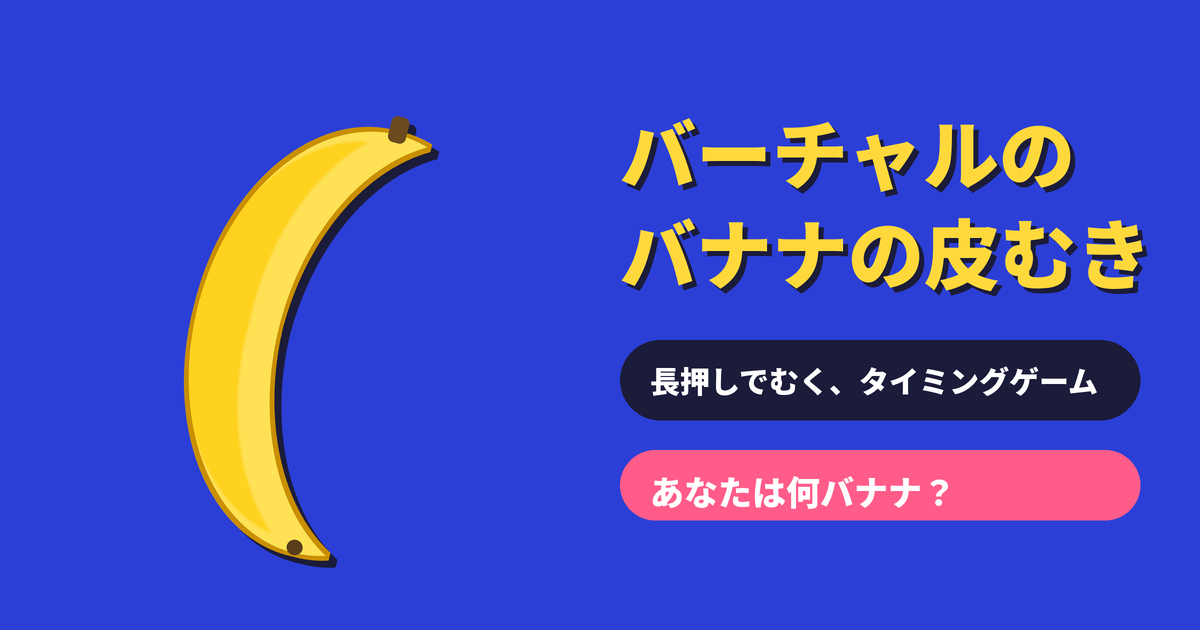
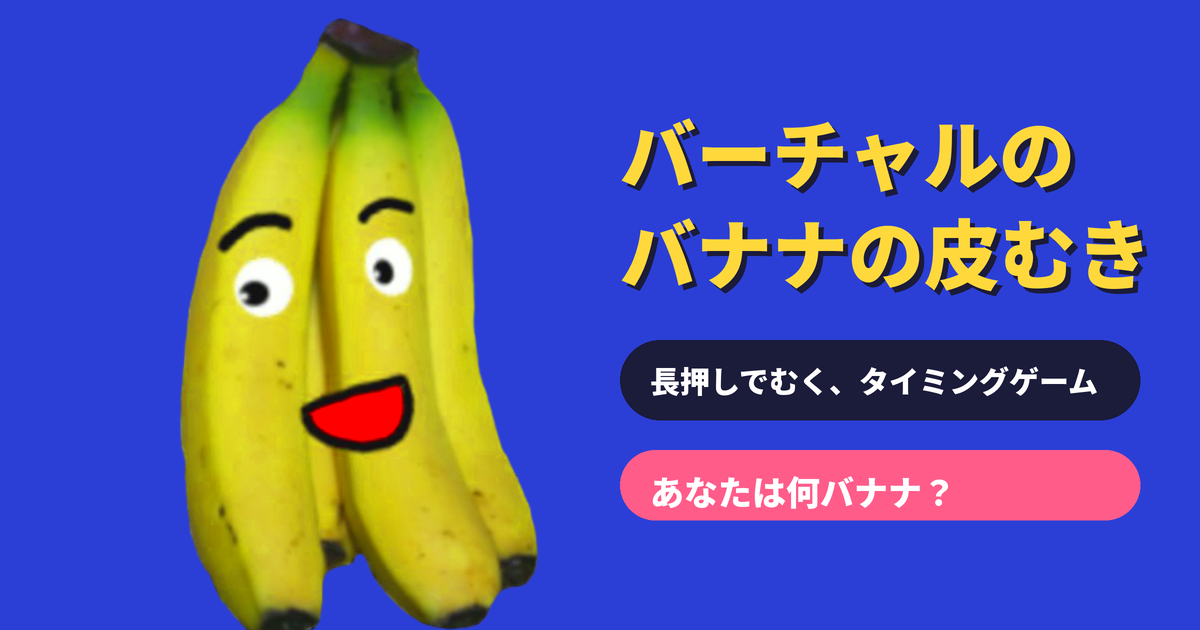
音声追加、タイトル画面

Changed region(s): [[0.1233, 0.0302, 0.4625, 1.0]]

diff --git a/index.html b/index.html
@@ -40,6 +40,8 @@ box-shadow:0 6px 0 var(--deep);cursor:pointer;touch-action:manipulation}
 .btn:active{transform:translateY(4px);box-shadow:0 2px 0 var(--deep)}
 .btn.sub{background:var(--banana);color:var(--deep)}
 .btn.x{background:#000}
+.mute{position:fixed;top:calc(env(safe-area-inset-top,0px) + 10px);right:12px;z-index:10;width:44px;height:44px;border-radius:50%;border:0;background:rgba(27,27,58,.9);color:#fff;font-size:20px;cursor:pointer;touch-action:manipulation}
+.mute:focus-visible{outline:3px solid #fff;outline-offset:2px}
 .btn.mini{font-size:15px;padding:8px 24px;min-width:0;background:transparent;color:#fff;box-shadow:none;text-decoration:underline}
 .btn:focus-visible{outline:3px solid #fff;outline-offset:3px}
 .gauge{width:100%;height:30px;border-radius:999px;background:var(--deep);padding:4px;box-shadow:0 4px 0 rgba(0,0,0,.25)}
@@ -79,12 +81,12 @@ box-shadow:0 6px 0 var(--deep);cursor:pointer;touch-action:manipulation}
           <linearGradient id="inG" gradientUnits="userSpaceOnUse" x1="-34" y1="0" x2="34" y2="0"><stop offset="0" stop-color="#f3dc8a"/><stop offset=".5" stop-color="#fff3bf"/><stop offset="1" stop-color="#e8c960"/></linearGradient>
           <linearGradient id="fruG" x1="0" x2="1"><stop offset="0" style="stop-color:var(--f2)"/><stop offset=".4" style="stop-color:var(--f1)"/><stop offset="1" style="stop-color:var(--f2)"/></linearGradient>
           <linearGradient id="stG" x1="0" x2="1"><stop offset="0" stop-color="#8a6526"/><stop offset=".5" stop-color="#b08838"/><stop offset="1" stop-color="#5e4219"/></linearGradient>
-          <clipPath id="cL"><rect x="-80" y="-240" width="71" height="260"/></clipPath>
-          <clipPath id="cC"><rect x="-10" y="-240" width="20" height="260"/></clipPath>
-          <clipPath id="cR"><rect x="9" y="-240" width="71" height="260"/></clipPath>
+          <clipPath id="cL"><rect x="-80" y="-240" width="67" height="260"/></clipPath>
+          <clipPath id="cC"><rect x="-14" y="-240" width="28" height="260"/></clipPath>
+          <clipPath id="cR"><rect x="13" y="-240" width="67" height="260"/></clipPath>
           <g id="sil">
             <path d="M-30,0 C-36,-60 -34,-150 -10,-200 L-6,-206 L6,-206 L10,-200 C34,-150 36,-60 30,0 Z" stroke="none"/>
-            <path d="M-10,-4 C-12,-60 -12,-150 -6,-200 M10,-4 C12,-60 12,-150 6,-200" fill="none" stroke-width="2" style="stroke:var(--edge)" opacity=".35"/>
+            <path d="M-14,-4 C-16,-60 -15,-150 -7,-200 M14,-4 C16,-60 15,-150 7,-200" fill="none" stroke-width="2" style="stroke:var(--edge)" opacity=".35"/>
             <path d="M-19,-20 C-23,-80 -22,-140 -14,-180" fill="none" stroke="#fff" stroke-opacity=".45" stroke-width="5" stroke-linecap="round"/>
             <path d="M-30,0 C-36,-60 -34,-150 -10,-200 L-6,-206 L6,-206 L10,-200 C34,-150 36,-60 30,0" fill="none" stroke-width="3" stroke-linejoin="round"/>
             <rect x="-6" y="-214" width="12" height="10" rx="3" fill="#5a3d1a" stroke="none"/>
@@ -94,7 +96,7 @@ box-shadow:0 6px 0 var(--deep);cursor:pointer;touch-action:manipulation}
           <path d="M-22,-4 C-27,-60 -25,-150 -8,-196 L8,-196 C25,-150 27,-60 22,-4Z" fill="url(#fruG)" style="stroke:var(--edge)" stroke-width="2"/>
           <path d="M-10,100 L-12,130 Q0,138 12,130 L10,100Z" fill="url(#stG)" stroke="#4a3213" stroke-width="2"/>
           <path d="M-30,-4 C-38,32 -30,82 -11,104 L11,104 C30,82 38,32 30,-4Z" fill="url(#peelG)" stroke="none"/>
-          <path d="M-10,-4 C-12,40 -9,80 -5,102 M10,-4 C12,40 9,80 5,102" fill="none" stroke-width="2" style="stroke:var(--edge)" opacity=".35"/>
+          <path d="M-14,-4 C-15,40 -11,80 -5,102 M14,-4 C15,40 11,80 5,102" fill="none" stroke-width="2" style="stroke:var(--edge)" opacity=".35"/>
           <path d="M-30,-4 C-38,32 -30,82 -11,104 L11,104 C30,82 38,32 30,-4" fill="none" style="stroke:var(--edge)" stroke-width="3"/>
           <g id="fl"><g clip-path="url(#cL)"><use id="flu" href="#sil" style="fill:url(#peelG);stroke:var(--edge)"/></g></g>
           <g id="fr"><g clip-path="url(#cR)"><use id="fru" href="#sil" style="fill:url(#peelG);stroke:var(--edge)"/></g></g>
@@ -119,6 +121,7 @@ box-shadow:0 6px 0 var(--deep);cursor:pointer;touch-action:manipulation}
   </div>
 </main>
 
+<button class="mute" id="mute" aria-label="音のオン・オフ">🔊</button>
 <script>
 (function(){
   var $=function(i){return document.getElementById(i)};
@@ -127,12 +130,12 @@ box-shadow:0 6px 0 var(--deep);cursor:pointer;touch-action:manipulation}
   var holding=false,t0=0,p=0,raf=0,rank=null,lastV=0,imgP=null,URL_='https://virtualbanana877.github.io/banana-peel/';
 
   var RANKS={
-    god:{n:'神バナナ',s:'完璧。バナナ界の伝説になれる。',e:['🍌','✨','🌟'],c:40},
-    pro:{n:'プロバナナ',s:'お見事。プロの手つき。',e:['🍌','✨'],c:18},
-    normal:{n:'普通バナナ',s:'悪くない。もう少しで神。',e:['🍌'],c:8},
-    unripe:{n:'未熟バナナ',s:'早すぎ。まだ皮が固い。',e:['💦','😣'],c:10},
-    mushy:{n:'ぐちゃぐちゃバナナ',s:'遅すぎ。実がつぶれた。',e:['💥','💦'],c:12},
-    rotten:{n:'腐れバナナ',s:'もはやバナナではない。',e:['🪰','☠'],c:12}
+    god:{n:'神バナナ',v:'かみバナナ',s:'完璧。バナナ界の伝説になれる。',e:['🍌','✨','🌟'],c:40},
+    pro:{n:'プロバナナ',v:'プロバナナ',s:'お見事。プロの手つき。',e:['🍌','✨'],c:18},
+    normal:{n:'普通バナナ',v:'ふつうバナナ',s:'悪くない。もう少しで神。',e:['🍌'],c:8},
+    unripe:{n:'未熟バナナ',v:'みじゅくバナナ',s:'早すぎ。まだ皮が固い。',e:['💦','😣'],c:10},
+    mushy:{n:'ぐちゃぐちゃバナナ',v:'ぐちゃぐちゃバナナ',s:'遅すぎ。実がつぶれた。',e:['💥','💦'],c:12},
+    rotten:{n:'腐れバナナ',v:'くされバナナ',s:'もはやバナナではない。',e:['🪰','☠'],c:12}
   };
 
   function judge(v){
@@ -146,8 +149,8 @@ box-shadow:0 6px 0 var(--deep);cursor:pointer;touch-action:manipulation}
 
   function draw(v){
     var a=v/100*130;
-    $('fl').setAttribute('transform','rotate('+(-a)+',-20,0)');
-    $('fr').setAttribute('transform','rotate('+a+',20,0)');
+    $('fl').setAttribute('transform','rotate('+(-a)+',-22,0)');
+    $('fr').setAttribute('transform','rotate('+a+',22,0)');
     var sy=1-1.6*v/100;
     $('fc').setAttribute('transform','scale(1,'+sy.toFixed(3)+')');
     $('fcu').style.fill=sy<0?'url(#inG)':'url(#peelG)';
@@ -157,9 +160,61 @@ box-shadow:0 6px 0 var(--deep);cursor:pointer;touch-action:manipulation}
     $('pct').innerHTML=Math.floor(v)+'<small>%</small>';
   }
 
+  var ac=null,snd=null,muted=false;
+  function audioOn(){
+    try{
+      if(!ac){var AC=window.AudioContext||window.webkitAudioContext;if(AC) ac=new AC();}
+      if(ac&&ac.state==='suspended') ac.resume();
+    }catch(e){}
+  }
+  function sndStart(){
+    if(!ac||muted||snd) return;
+    var t=ac.currentTime,o=ac.createOscillator(),f=ac.createBiquadFilter(),g=ac.createGain(),l=ac.createOscillator(),lg=ac.createGain();
+    o.type='sawtooth';o.frequency.value=160;
+    f.type='lowpass';f.Q.value=6;f.frequency.value=500;
+    g.gain.setValueAtTime(0,t);g.gain.linearRampToValueAtTime(.14,t+.06);
+    l.frequency.value=7;lg.gain.value=10;l.connect(lg);lg.connect(o.frequency);
+    o.connect(f);f.connect(g);g.connect(ac.destination);
+    o.start();l.start();
+    snd={o:o,f:f,g:g,l:l,lg:lg};
+  }
+  function sndUpdate(v){
+    if(!snd) return;
+    var t=ac.currentTime,k=v/100;
+    snd.o.frequency.setTargetAtTime(160*Math.pow(3.4,k),t,.03);
+    snd.f.frequency.setTargetAtTime(500+1400*k,t,.03);
+    snd.lg.gain.setTargetAtTime(10+30*k,t,.05);
+    snd.l.frequency.setTargetAtTime(7+5*k,t,.05);
+  }
+  function sndStop(){
+    if(!snd) return;
+    var t=ac.currentTime,x=snd;snd=null;
+    x.g.gain.cancelScheduledValues(t);x.g.gain.setTargetAtTime(0,t,.04);
+    x.o.stop(t+.25);x.l.stop(t+.25);
+  }
+  function cancelSpeech(){try{if(window.speechSynthesis) speechSynthesis.cancel();}catch(e){}}
+  function primeSpeech(){
+    try{if(window.speechSynthesis){var u=new SpeechSynthesisUtterance('');u.volume=0;speechSynthesis.speak(u);}}catch(e){}
+  }
+  function speak(t){
+    if(muted) return;
+    try{
+      if(!window.speechSynthesis) return;
+      speechSynthesis.cancel();
+      var u=new SpeechSynthesisUtterance(t);u.lang='ja-JP';u.rate=1;u.pitch=1.1;
+      var vs=speechSynthesis.getVoices();
+      for(var i=0;i<vs.length;i++){if(/^ja/i.test(vs[i].lang)){u.voice=vs[i];break;}}
+      speechSynthesis.speak(u);
+    }catch(e){}
+  }
+  $('mute').addEventListener('click',function(){
+    muted=!muted;this.textContent=muted?'🔇':'🔊';
+    if(muted){sndStop();cancelSpeech();}else{audioOn();}
+  });
+
   function setScreen(s){app.dataset.s=s;}
   function ready(){
-    cancelAnimationFrame(raf);holding=false;p=0;rank=null;app.dataset.r='';
+    sndStop();cancelSpeech();cancelAnimationFrame(raf);holding=false;p=0;rank=null;app.dataset.r='';audioOn();primeSpeech();
     draw(0);$('hint').textContent='画面を長押し！';setScreen('play');
   }
 
@@ -167,6 +222,7 @@ box-shadow:0 6px 0 var(--deep);cursor:pointer;touch-action:manipulation}
     if(!holding) return;
     p=Math.min(100,(now-t0)/1000*SPEED);
     draw(p);
+    sndUpdate(p);
     if(p>=100){finish();return;}
     raf=requestAnimationFrame(tick);
   }
@@ -174,7 +230,7 @@ box-shadow:0 6px 0 var(--deep);cursor:pointer;touch-action:manipulation}
   function press(e){
     if(app.dataset.s!=='play'||holding) return;
     e.preventDefault();
-    holding=true;t0=performance.now();
+    holding=true;t0=performance.now();audioOn();sndStart();
     $('hint').textContent='ちょうどいいところで離す！';
     raf=requestAnimationFrame(tick);
   }
@@ -185,6 +241,7 @@ box-shadow:0 6px 0 var(--deep);cursor:pointer;touch-action:manipulation}
 
   function finish(){
     holding=false;cancelAnimationFrame(raf);
+    sndStop();
     var v=Math.floor(p);
     rank=judge(v);var r=RANKS[rank];
     draw(p);
@@ -192,10 +249,11 @@ box-shadow:0 6px 0 var(--deep);cursor:pointer;touch-action:manipulation}
     var mx=Math.max.apply(null,parts.map(function(t){return t.length}));
     var fs=Math.min(64,Math.floor((Math.min(window.innerWidth,520)-112)/(mx*1.06)));
     $('rtext').innerHTML='貴方が剥いたバナナは<br><span id="rank" class="disp" style="font-size:'+fs+'px">'+parts.join('<br>')+'</span><br>でした。';
-    $('rsub').textContent=r.s+'（'+v+'%）';
+    $('rsub').textContent=r.s;
     app.dataset.r=rank;setScreen('result');
     effects(rank);
     lastV=v;imgP=makeImage().catch(function(){return null});
+    speak('あなたがむいたバナナは、'+r.v+'でした。');
   }
 
   function effects(k){
@@ -250,7 +308,7 @@ box-shadow:0 6px 0 var(--deep);cursor:pointer;touch-action:manipulation}
       c.fillStyle='#ff5c8a';rr(c,830-w/2,250-h/2+8,w,h,28);c.fill();
       c.fillStyle='#ffd93b';rr(c,830-w/2,250-h/2,w,h,28);c.fill();
       c.fillStyle='#1b1b3a';c.fillText(r.n,830,252);
-      c.fillStyle='#fff';c.font='900 38px '+F;c.fillText('でした。（'+lastV+'%）',830,395);
+      c.fillStyle='#fff';c.font='900 38px '+F;c.fillText('でした。',830,395);
       c.font='900 28px '+F;c.fillText('#バーチャルのバナナの皮むき',830,520);
       return new Promise(function(res){cv.toBlob(res,'image/png');});
     });
